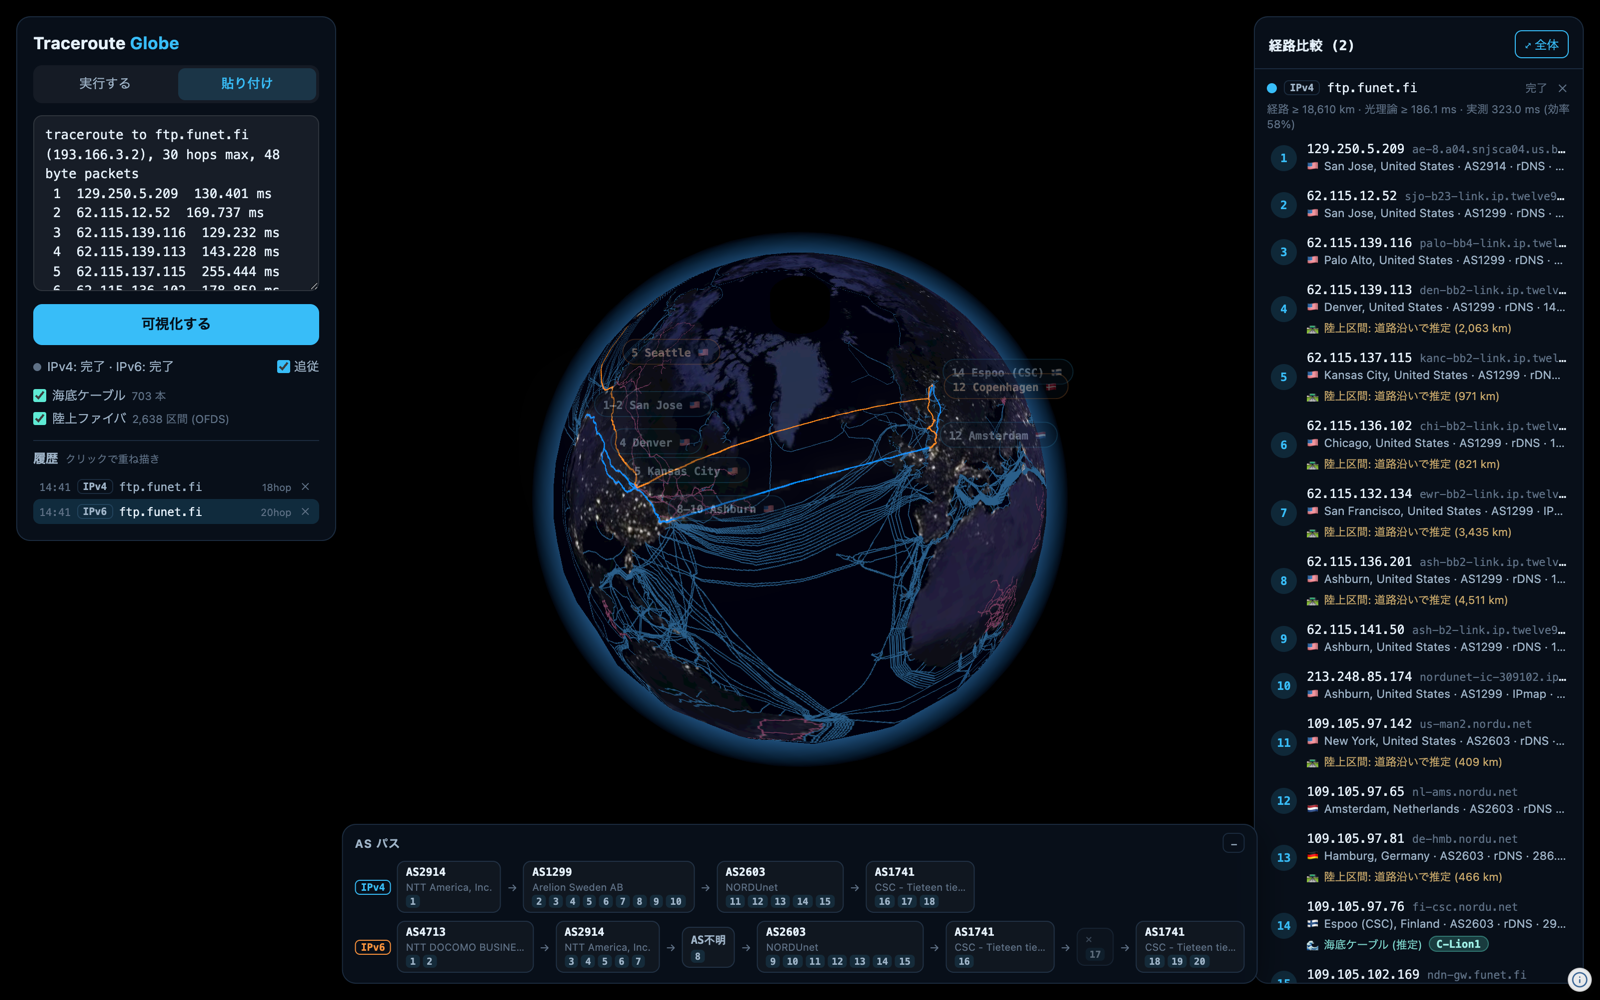
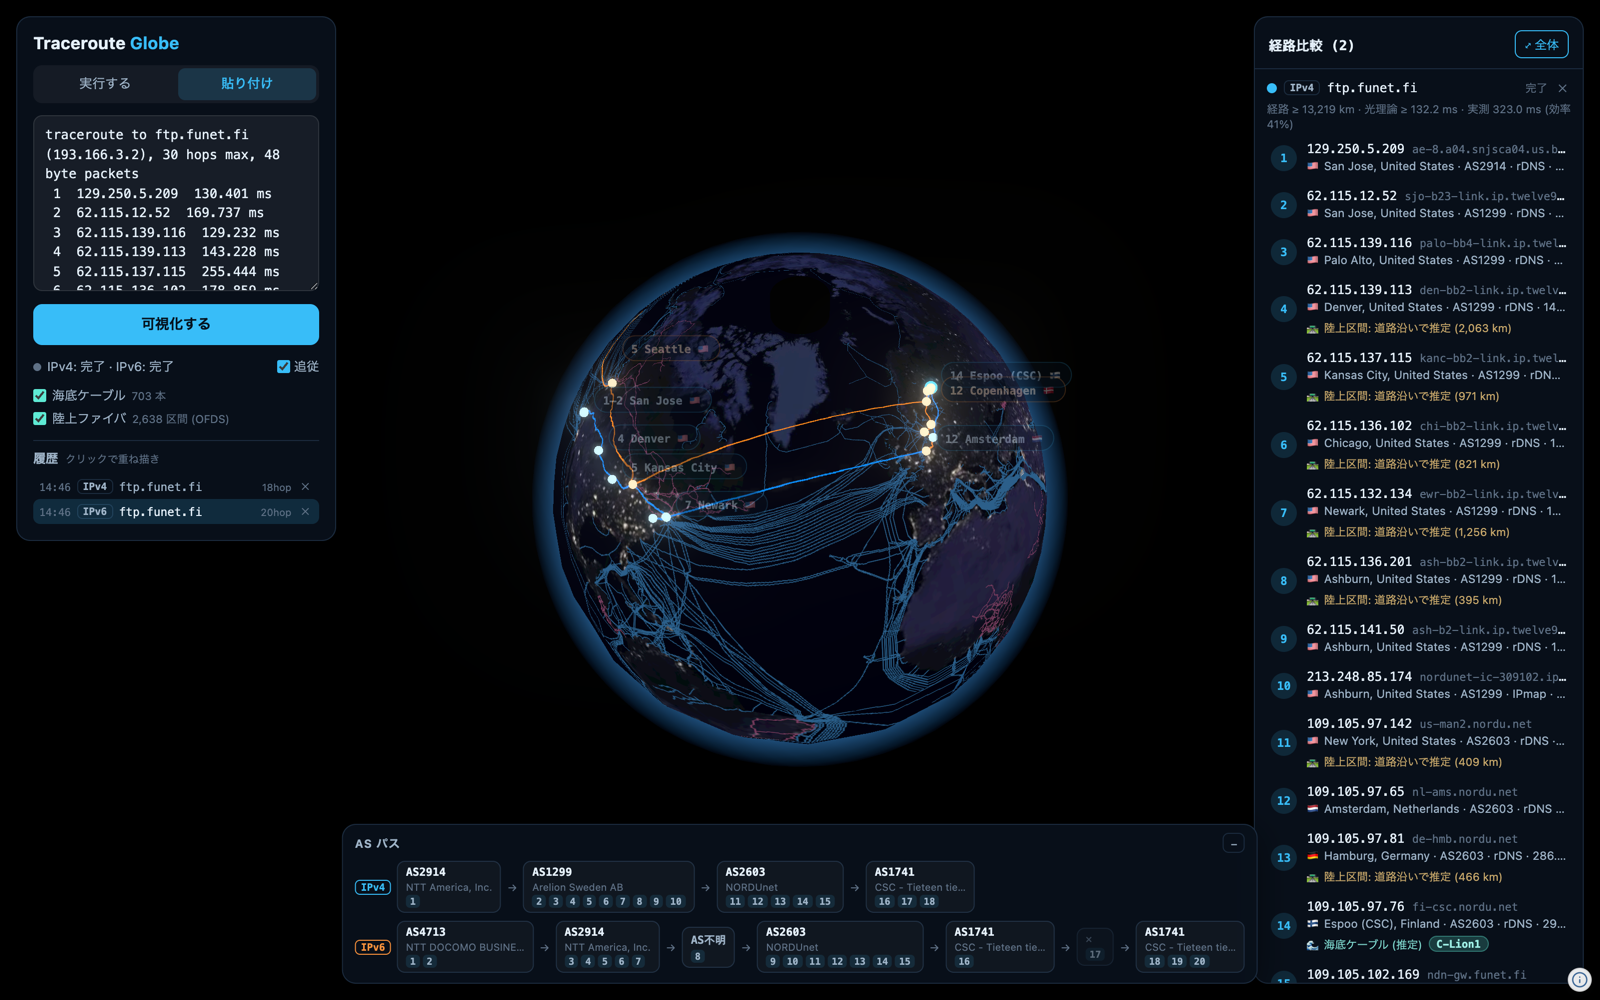
位置候補の選択をホップ列全体の動的計画法 (Viterbi) に変更
隣接ホップを順に基準にする反復は、hop 6/7 (chi-bb2/ewr-bb2) のように隣同士が
互いを基準にして振動し、片方が IPmap の SF 判定に留まる問題があった。
候補列全体で「隣接距離 ≤ 100km×(ΔRTT+15ms)」「発信元距離 ≤ 100km×RTT」の
違反コスト + ソース信頼順のタイブレークが最小の組み合わせを一括で解き、
前後の隣接制約に両方とも反するホップだけを ⚠ にする。
DEV では window.__traces でトレース状態を参照可能に。README 更新

diff --git a/README.md b/README.md
@@ -33,10 +33,11 @@ compare IPv4 vs IPv6 paths side by side, and read the AS-level path at a glance.
   codes such as `sttlwa`, `chcgil`, `lax`, plus a few carrier-specific
   abbreviations), [RIPE IPmap](https://ipmap.ripe.net/) (RIPE Atlas latency
   measurements, IXP data, geofeeds, crowdsourcing) and a general IP database
-  (ip-api). The client picks, in that order of trust, the first candidate that
-  is physically consistent with the measured RTTs (speed of light in fibre ≈
-  100 km per ms of RTT, checked against the origin and against the
-  neighbouring hops) and flags hops that no candidate can explain
+  (ip-api). The client then solves for the whole hop sequence at once (dynamic
+  programming over the candidates), minimising violations of the speed of light
+  in fibre (≈ 100 km per ms of RTT, between neighbouring hops and against the
+  origin) with the source trust order as a tie-breaker, and flags hops that no
+  candidate can explain
 - **Submarine cables** — every submarine cable system in the world
   (TeleGeography data, ~700 systems) drawn under the route. Click a cable to see
   its name, length, RFS year and owners
